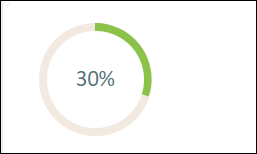
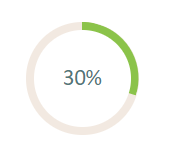
GITBOOK-80: change request with no subject merged in GitBook

diff --git a/getting-started/workspace/tools/screen-components/custom-components.md b/getting-started/workspace/tools/screen-components/custom-components.md
@@ -60,7 +60,7 @@ The Progress Bar shows you how much of a task is done with a bar that fills up a
 
 <div align="left">
 
-<figure><img src="../../../../.gitbook/assets/Progress bar (1).png" alt="" width="562"><figcaption></figcaption></figure>
+<figure><img src="../../../../.gitbook/assets/Progress bar.png" alt="" width="560"><figcaption></figcaption></figure>
 
 </div>
 
@@ -74,7 +74,7 @@ The Progress Circle component represents progress in a circular format. It offer
 
 <div align="left">
 
-<figure><img src="../../../../.gitbook/assets/Progress circle.png" alt="" width="193"><figcaption></figcaption></figure>
+<figure><img src="../../../../.gitbook/assets/Progress circle (1).png" alt="" width="193"><figcaption></figcaption></figure>
 
 </div>
 
@@ -164,29 +164,89 @@ It is often used for sign-ups or form submissions to maintain the site’s integ
 
 ### Kendo Tree
 
+The Kendo Tree component can effectively organize and display hierarchical data. It offers a simple way to represent data with parent-child relationships in a tree-like structure for easy navigation.
 
+<div align="left">
 
-### Face book Signin
+<figure><img src="../../../../.gitbook/assets/Kendo Tree.png" alt="" width="254"><figcaption></figcaption></figure>
 
-### Twitter Sign in
+</div>
 
-### Linked in Sign in
+#### Use cases
 
-### Github Sign in
+Its common use cases include navigation menus for web apps, file explorers, and organizational charts, among other things. It works best for displaying nested data.
 
-### Google Sign in
+### Facebook Sign-in/Twitter Sign-in/LinkedIn Sign-in/Google Sign-in/ GitHub Sign-in
+
+These components help users authenticate through social platforms. This lets them sign into your app using their social media accounts. You can use these social sign-ins to authenticate faster.
+
+* Add Facebook Sign-in, if you want to make access easier while still using social connectivity.
+* For platforms that want to reach more people or start community discussions, use Twitter Sign-in.
+* Add LinkedIn Sign-in, to let users use their professional profiles to connect with new contacts or apply for jobs.
+* For developer-centric platforms, add GitHub Sign-in, to make it easier for users to join developer-focused platforms and get involved in the community.
+* Add Google Sign-In for a seamless login experience. It's a quick authentication process and a great way to make signing in easy for users.
 
 ### Timer
 
+Use the Timer component to count down or track time. Display time duration or intervals for users engaging in time-sensitive activities. You can choose the type of timer, set the countdown time, and customize its appearance.
+
+<div align="left">
+
+<figure><img src="../../../../.gitbook/assets/Timer (1).png" alt=""><figcaption></figcaption></figure>
+
+</div>
+
+#### Use cases
+
+This component is great for applications featuring countdowns, reminders, limited-time deals in e-commerce sites, or any scenario where you need to keep track of time.
+
 ### Weather Widget
+
+Keep users informed on the weather with the Weather Widget component. It provides real-time weather forecasts, or climatic details, either for the current day or for the next 5 days.
+
+<div align="left">
+
+<figure><img src="../../../../.gitbook/assets/Weather widget.png" alt=""><figcaption></figcaption></figure>
+
+</div>
+
+#### Use cases
+
+It is often used in travel apps or event planning platforms. Ideal for applications requiring weather updates, travel planning, or location-based services.
 
 ### Mobile Number
 
+The Mobile Number field is essential for communication-based services or verification processes.
+
+<div align="left">
+
+<figure><img src="../../../../.gitbook/assets/Mobile number.png" alt="" width="394"><figcaption></figcaption></figure>
+
+</div>
+
+#### Use cases
+
+Useful in applications requiring user contact details, mobile number verification, or any scenario involving phone number input.
+
 ### Text Editor
+
+The Text Editor component empowers users to input and format text seamlessly within the app. It is a rich text editor with a range of editing functionalities such as bold, italic, underline, bullet points, and numbered lists. It offers a user-friendly interface that facilitates text manipulation, formatting, and customization, resembling familiar word processing software.
+
+<div align="left">
+
+<figure><img src="../../../../.gitbook/assets/Text Editor.png" alt="" width="563"><figcaption></figcaption></figure>
+
+</div>
+
+**Use Cases**
+
+Essential for applications involving content creation, document editing, note-taking, or any scenario requiring text input.
 
 ### Quantity
 
 ### Score Meter
+
+
 
 ### Paragraph
 

diff --git a/getting-started/workspace/tools/screen-components/files-and-images.md b/getting-started/workspace/tools/screen-components/files-and-images.md
@@ -34,7 +34,7 @@ It's often used
 
 ### Profile Picture
 
-The Profile Picture component lets users upload and personalize their accounts. Adding a profile picture is simple. Drag it onto the canvas and a placeholder will appear. Add an image of yourself or an avatar by simply clicking on it to upload or capture your picture.
+The Profile Picture component lets users upload and personalize their accounts. Adding a profile picture is simple. Drag it onto the canvas and a placeholder will appear. Add an image of yourself or an avatar by simply clicking on it or capture your picture.
 
 ![](<../../../../.gitbook/assets/Profile Picture.png>)
 
@@ -82,7 +82,7 @@ Ideal for apps that need SMS notifications, verifications, or text-based user co
 
 ### File Upload
 
-The File Upload component allows your users to upload content of their own. This facilitates users to either select the desired file(s) to upload or drag and drop selected files directly into a drop zone area to upload. It allows your users to easily upload documents, images, or any digital files. Drag this component onto the canvas and customize its behavior by setting its properties, wherein you can
+The File Upload component allows your users to upload content of their own. This facilitates users to either select the desired file(s) to upload or drag and drop selected files directly into a drop zone area to upload. It allows your users to easily upload documents, images, or any digital files. Drag this component onto the canvas and customize its behavior by setting its properties, wherein you can:
 
 * insert a placeholder,
 * restrict the file size,
@@ -102,10 +102,10 @@ A file uploader is commonly found in forms but can also be used as a standalone 
 
 ### Image Uploader
 
-The Image Uploader lets users add their images to personalize content. The Image Uploader lets users upload images, making it easier for them to share and engage with visual content. It facilitates you to restrict file size and set an error message when something fails.
+The Image Uploader lets users add their images to personalize content. The Image Uploader lets users upload images, making it easier for them to share and engage with visual content. It enables you to restrict file size and set an error message when something fails.
 
 
 
 #### Use cases
 
-It is widely used in social media platforms or forums where users can upload images.
+It is widely used on social media platforms or forums where users can upload images.
